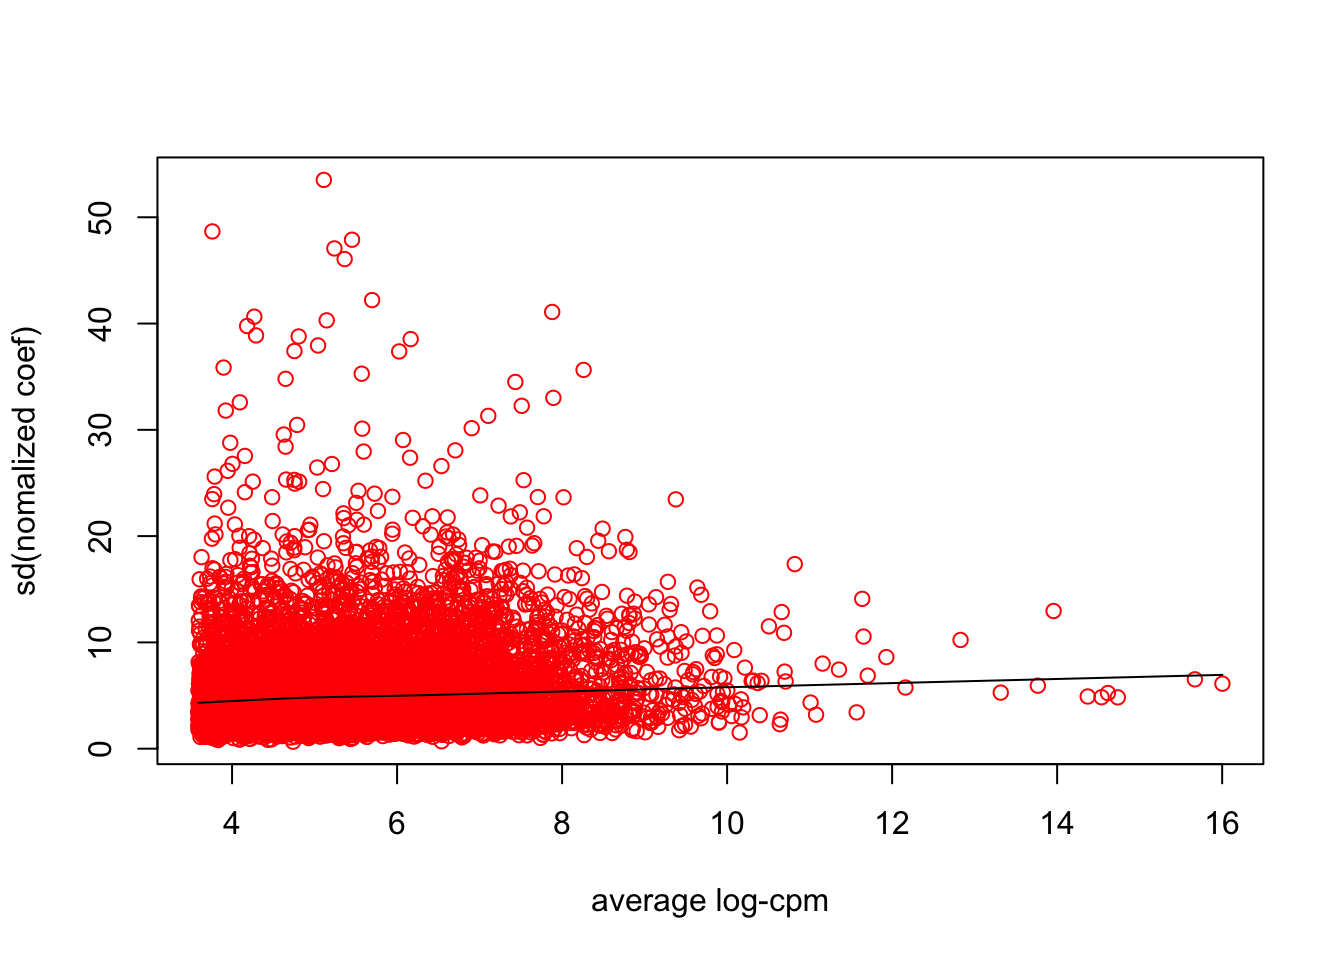
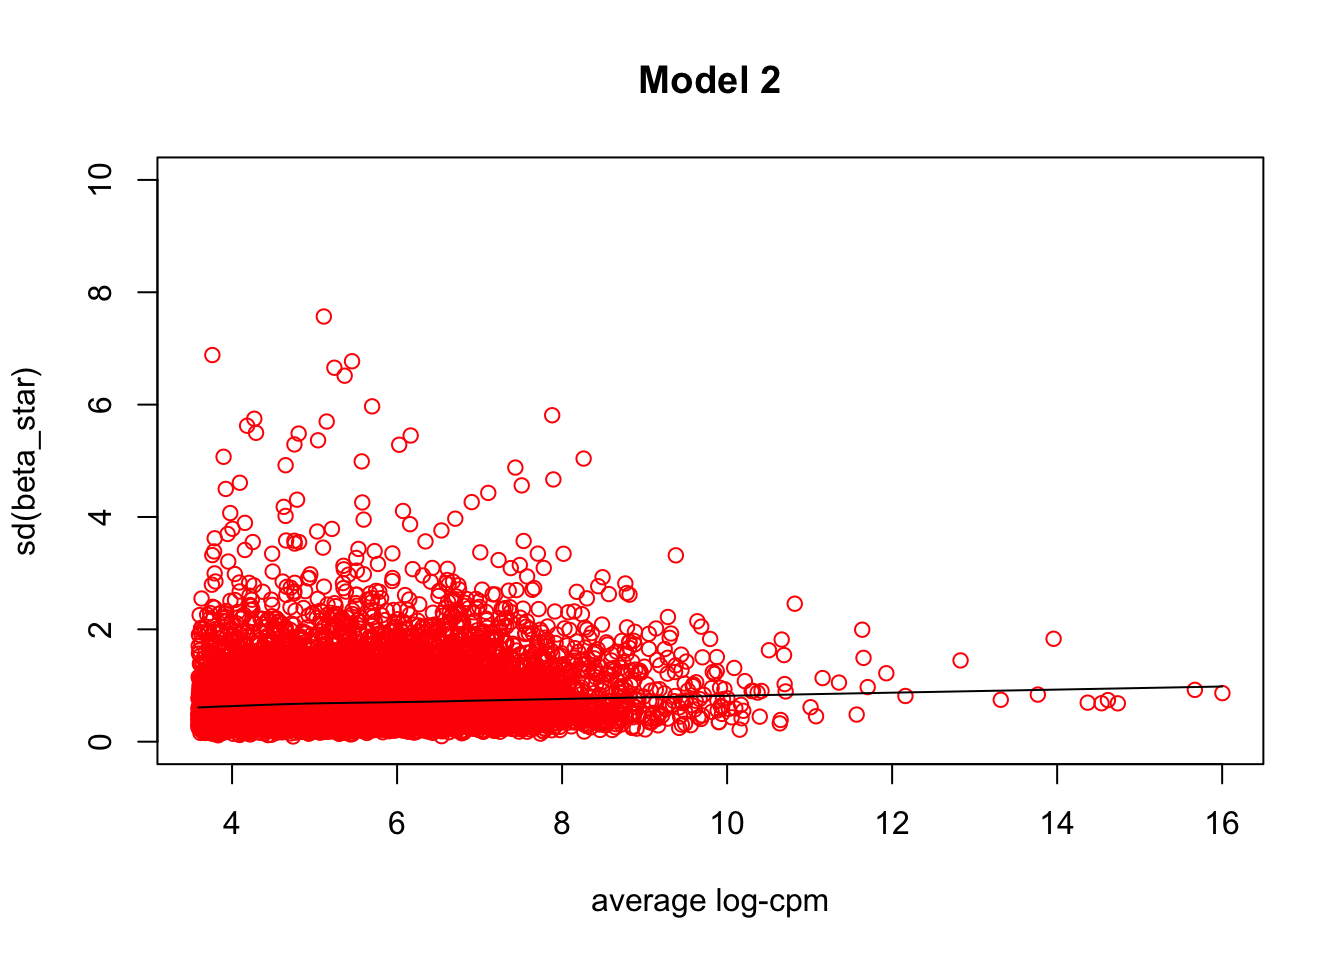
update alt_voom_ftest.rmd

diff --git a/analysis/alt_voom_ftest.html b/analysis/alt_voom_ftest.html
@@ -170,21 +170,24 @@ $(document).ready(function () {
 
 <div id="TOC">
 <ul>
+<li><a href="#check-model-2">Check model 2</a></li>
+<li><a href="#check-model-3">Check Model 3</a></li>
+<li><a href="#reference">Reference</a></li>
 <li><a href="#session-information">Session information</a></li>
 </ul>
 </div>
 
-<p><strong>Last updated:</strong> 2016-04-28</p>
-<p><strong>Code version:</strong> 9f3adeea9d03e68822819a11783a8ee24a9046a8</p>
+<p><strong>Last updated:</strong> 2016-05-02</p>
+<p><strong>Code version:</strong> e0cf0fcd8698aa1e3b93947ed5b436bb1e750b14</p>
 <p>Previously we used fash to analyze the variance decomposition for a simple random effect model <span class="math display">\[Y_{i}=\mu+\beta_{c(i)}+e_i,\]</span> where <span class="math inline">\(\beta_{c(i)}\sim N(0,\sigma^2)\)</span> and <span class="math inline">\(e_i\sim N(0,s^2)\)</span>, and we can estimate the PVE (<span class="math inline">\(\sigma^2/(\sigma^2+s^2)\)</span>).</p>
 <p>However, for RNA-seq data, after voom transformation we have a weighted linear regression model for each gene <span class="math inline">\(g\)</span> (suppose <span class="math inline">\(N\)</span> is number of samples in each group and <span class="math inline">\(K\)</span> is number of groups, so <span class="math inline">\(Y_g\)</span> is <span class="math inline">\(NK\)</span>-vector and <span class="math inline">\(\beta_g\)</span> is <span class="math inline">\(K\)</span>-vector): <span class="math display">\[Y_g=X\beta_g+W_g^{-1/2}e_g,\]</span> where <span class="math inline">\(X\)</span> is the design matrix, <span class="math inline">\(W_g\)</span> is the diagonal weight matrix (weights inversly proportional to <span class="math inline">\(Var(Y_g)\)</span>, and <span class="math inline">\(e_g\sim N(0,s_g^2I_{NK \times NK})\)</span>). Note that <span class="math inline">\(W_g\)</span> depends on count level, but <span class="math inline">\(s_g^2\)</span> doesn’t! <span class="math inline">\(s_g^2\)</span> is the de-trended error variance.</p>
 <p>Now our goal is to model the random effect <span class="math inline">\(X\beta_g\)</span>. A few possible ways (note: <span class="math inline">\(\sigma^2\)</span> doesn’t depend on count level!):</p>
 <ul>
 <li><p>Model 1: <span class="math inline">\(Y_g=\mu_g+X\beta_g+W_g^{-1/2}e_g\)</span> and <span class="math inline">\(\beta_g\sim N(0,\sigma_g^2 I_{K \times K})\)</span>. However this model’s ANOVA F-statistic doesn’t have close form distribution!</p></li>
 <li><p>Model 2: <span class="math inline">\(Y_g=\mu_g+X\beta_g+W_g^{-1/2}e_g\)</span> and <span class="math inline">\(\beta_g\sim N(0,\sigma_g^2N(X^TW_gX)^{-1})\)</span>. In the balanced design model, this assumption means that <span class="math inline">\(\beta_g\)</span>’s variance is inversely proportional to the average observation’s weights within each group. So the ANOVA’s F-statistic will follow the distribution (Johnson 2007) <span class="math display">\[F_g\sim (1+N\sigma_g^2/s_g^2)F(K-1,NK-K).\]</span></p></li>
-<li><p>Model 3: <span class="math inline">\(\tilde{Y}_g:=W_g^{1/2}Y_g=\tilde{\mu}_g+X\tilde{\beta_g}+e_g\)</span> and <span class="math inline">\(\tilde{\beta}_g\sim N(0,\sigma_g^2 I_{K \times K})\)</span>. However <span class="math inline">\(\tilde{\beta}\)</span> is different from <span class="math inline">\(\beta\)</span> and the interpretation changes!</p></li>
+<li><p>Model 3: <span class="math inline">\(Y_g=\mu_g+W_g^{-1/2}X\tilde{\beta_g}+W_g^{-1/2}e_g\)</span> and <span class="math inline">\(\tilde{\beta}_g\sim N(0,\sigma_g^2 I_{K \times K})\)</span>. Note that <span class="math inline">\(\tilde{\beta}\)</span> is different from <span class="math inline">\(\beta\)</span> defined in voom paper and the interpretation changes!</p></li>
 </ul>
-<p>We check whether Model 2’s assumption is sensible on GTEx data.</p>
+<p>We check whether Model 2 and Model 3’s assumption is sensible on GTEx data.</p>
 <p>First define functions to generate RNA-Seq datasets (we use GTEx data). Here we use data from multiple tissues (conditions), and analyze the conditional effects using F-test, limma or fash (on voom-transformed data).</p>
 <pre class="r"><code>library(edgeR)</code></pre>
 <pre><code>Loading required package: limma</code></pre>
@@ -344,7 +347,9 @@ args = list(tissue=c(&quot;Brain-Amygdala&quot;,&quot;Brain-Caudate(basalganglia
                      &quot;Brain-Substantianigra&quot;), 
             ngene=10000, ngroup=10, nsamp=50, breaksample=TRUE)
 test = datamaker(args)</code></pre>
-<p>Since Model 2 assumes that <span class="math inline">\(Var(\beta)=\sigma^2(X^TWX)^{-1}\)</span>, where <span class="math inline">\(\sigma^2\)</span>’s are exchangeable across genes and do not depend on count levels. We plot the normalized effect sizes <span class="math inline">\(\tilde{\beta}_g:=\beta_g/(X^TW_gX)^{-1/2}\)</span> such that their variances are exchangeble. We see there are no obvious trend between the distribution of <span class="math inline">\(sd(\tilde{\beta}_g)\)</span> and the average log-cpm values if we remove the leverage points on the right.</p>
+<div id="check-model-2" class="section level2">
+<h2>Check model 2</h2>
+<p>Since Model 2 assumes that <span class="math inline">\(Var(\beta)=\sigma^2N(X^TWX)^{-1}\)</span>, where <span class="math inline">\(\sigma^2\)</span>’s are exchangeable across genes and do not depend on count levels. Therefore the variances of the normalized effect sizes <span class="math inline">\(\beta^*_g:=\beta_g/\sqrt{N(X^TWX)^{-1}}\)</span> should be exchangeable. We see that there are no obvious trend between the distribution of <span class="math inline">\(sd(\hat{\beta^*})\)</span> and the average log-cpm values if we remove the leverage points on the right.</p>
 <pre class="r"><code># compute the normalizing factors (X&#39;WX) for each gene
 scalew_vec = function(weights, condition){
   return(t(apply(weights,1,scalew, model.matrix(~condition)[,-1])))
@@ -359,20 +364,51 @@ scalew = function(W, X){
 # fit the regression coefficients beta
 lim = lmFit(test$input$v,model.matrix(~test$input$condition))
 
-# normalize beta by sqrt(X&#39;WX)
+# normalize beta by sqrt(X&#39;WX)^(-1)
 weights_beta = scalew_vec(test$input$v$weights,test$input$condition)
-coef_w = lim$coefficients[,-1]/sqrt(weights_beta) # no intercept
+coef_w = lim$coefficients[,-1]/sqrt(test$meta$args$nsamp*weights_beta) # no intercept
 
 # plot sd&#39;s of normalized beta against average log-cpm
 sd_coef_w = apply(coef_w, 1, sd)
-scatter.smooth(test$input$avelogcpm, sd_coef_w,col=2,
-               xlab=&quot;average log-cpm&quot;, ylab=&quot;sd(nomalized coef)&quot;)</code></pre>
+scatter.smooth(test$input$avelogcpm, sd_coef_w,col=2,ylim=c(0,10),
+               xlab=&quot;average log-cpm&quot;, ylab=&quot;sd(beta_star)&quot;,main=&quot;Model 2&quot;)</code></pre>
 <p><img src="figure/alt_voom_ftest.Rmd/unnamed-chunk-3-1.png" title="" alt="" width="672" style="display: block; margin: auto;" /></p>
 <pre class="r"><code># remove some leverage points on the right
 scatter.smooth(test$input$avelogcpm[test$input$avelogcpm&lt;8], sd_coef_w[test$input$avelogcpm&lt;8],
-               col=2,xlab=&quot;average log-cpm&quot;, ylab=&quot;sd(nomalized coef)&quot;)</code></pre>
+               ylim=c(0,10),col=2,xlab=&quot;average log-cpm&quot;, ylab=&quot;sd(beta_star)&quot;,main=&quot;Model 2&quot;)</code></pre>
 <p><img src="figure/alt_voom_ftest.Rmd/unnamed-chunk-3-2.png" title="" alt="" width="672" style="display: block; margin: auto;" /></p>
-<p>Reference: Johnson, Valen E. “Properties of Bayes factors based on test statistics.” Scandinavian Journal of Statistics 35.2 (2008): 354-368.</p>
+</div>
+<div id="check-model-3" class="section level2">
+<h2>Check Model 3</h2>
+<p>We fit <span class="math inline">\(\tilde{\beta}\)</span> by running a simple linear regression data on centered and normalized data <span class="math inline">\(\tilde{Y}_g:=W_g^{1/2}(Y_g-\mu_g)=X\tilde{\beta}_g+e_g\)</span>. Since Model 3 assumes that <span class="math inline">\(\tilde{\beta}_g\sim N(0,\sigma_g^2)\)</span> and <span class="math inline">\(\sigma_g^2\)</span> does not depend on count level, we can plot <span class="math inline">\(sd(\hat{\tilde{\beta}})\)</span> against the average log-cpm values and check if there is obvious trend. Similar to the above discussion for Model 2, there is no obvious relationship between them if we drop some leverage points on the right.</p>
+<pre class="r"><code># Y_tilde is centered and normalized by error weights
+Y_tilde = (test$input$v$E-lim$coefficients[,1])*sqrt(test$input$v$weights)
+
+# fit beta_tilde
+reg = function(y,condition){
+  m = lm(y~condition)
+  m$coef+c(0,rep(m$coef[1],length(m$coef)-1))
+}
+coef_tilde = t(apply(Y_tilde,1,reg, condition=test$input$condition))
+
+# plot plot sd&#39;s of beta_tilde against average log-cpm
+sd_coef_tilde = apply(coef_tilde[,-1],1,sd)
+scatter.smooth(test$input$avelogcpm, sd_coef_tilde,col=2,ylim=c(0,10),
+               xlab=&quot;average log-cpm&quot;, ylab=&quot;sd(beta_tilde)&quot;,main=&quot;Model 3&quot;)</code></pre>
+<p><img src="figure/alt_voom_ftest.Rmd/unnamed-chunk-4-1.png" title="" alt="" width="672" style="display: block; margin: auto;" /></p>
+<pre class="r"><code># remove some leverage points on the right
+scatter.smooth(test$input$avelogcpm[test$input$avelogcpm&lt;8], sd_coef_tilde[test$input$avelogcpm&lt;8],
+               col=2,ylim=c(0,10),xlab=&quot;average log-cpm&quot;, ylab=&quot;sd(beta_tilde)&quot;,main=&quot;Model 3&quot;)</code></pre>
+<p><img src="figure/alt_voom_ftest.Rmd/unnamed-chunk-4-2.png" title="" alt="" width="672" style="display: block; margin: auto;" /></p>
+<p>Actually in this dataset, Model 2’s <span class="math inline">\(sd(\hat{\tilde{\beta}})\)</span> and Model 3’s <span class="math inline">\(sd(\hat{\tilde{\beta}})\)</span> are almost same.</p>
+<pre class="r"><code>plot(sd_coef_w,sd_coef_tilde, xlab=&quot;Model 2: sd(beta_star)&quot;,ylab=&quot;Model 3: sd(beta_tilde)&quot;)
+abline(0,1,col=2)</code></pre>
+<p><img src="figure/alt_voom_ftest.Rmd/unnamed-chunk-5-1.png" title="" alt="" width="672" style="display: block; margin: auto;" /></p>
+</div>
+<div id="reference" class="section level2">
+<h2>Reference</h2>
+<p>[1] Johnson, Valen E. “Properties of Bayes factors based on test statistics.” Scandinavian Journal of Statistics 35.2 (2008): 354-368. [2] Johnson, Valen E. “Bayes factors based on test statistics.” Journal of the Royal Statistical Society: Series B (Statistical Methodology) 67.5 (2005): 689-701.</p>
+</div>
 <div id="session-information" class="section level2">
 <h2>Session information</h2>
 <pre class="r"><code>sessionInfo()</code></pre>
